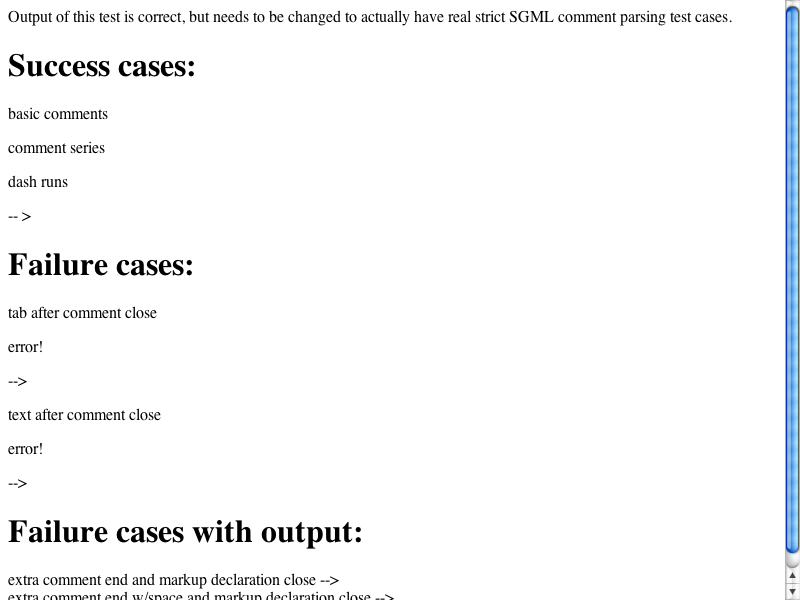
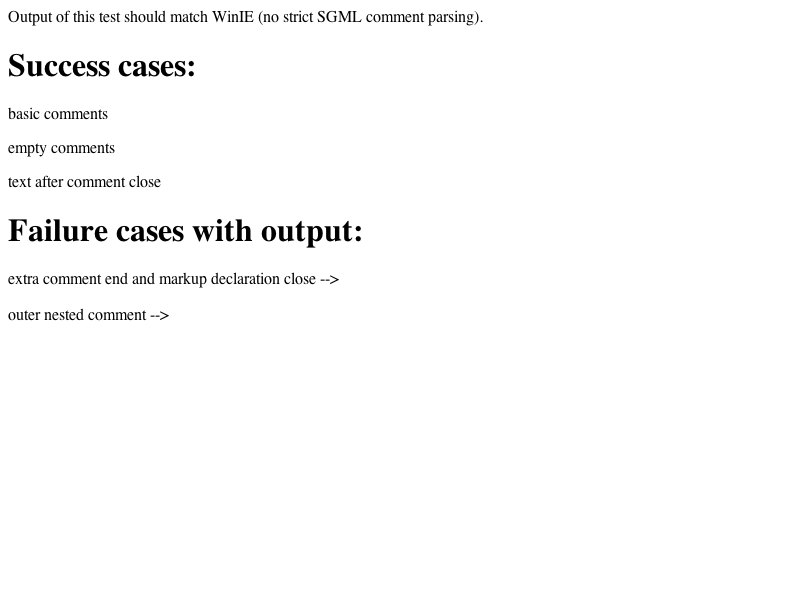
Reviewed by hyatt.
- http://bugzilla.opendarwin.org/show_bug.cgi?id=5855
          REGRESSION: revert SGML comment parsing fix (comment parsing causes most of usbank.com page to be missing)

WebCore:
        * html/HTMLTokenizer.cpp:
        (WebCore::HTMLTokenizer::parseComment): Revert one change made for acid2, 
        <http://weblogs.mozillazine.org/hyatt/acid6.txt>.

LayoutTests:
        * fast/css/acid2.html: Updated to the current version of the test, which no longer includes 
          SGML comment parsing.
        * fast/css/acid2-pixel.html: Ditto.
        * http/tests/misc/acid2-pixel.html: Ditto.
        * http/tests/misc/acid2.html: Ditto.
        * fast/parser/comments-expected.checksum: The results of this test now match WinIE.
        * fast/parser/comments-expected.png:
        * fast/parser/comments-expected.txt:
        * fast/parser/comments.html:

git-svn-id: https://svn.webkit.org/repository/webkit/trunk@14106 268f45cc-cd09-0410-ab3c-d52691b4dbfc

diff --git a/LayoutTests/fast/css/acid2.html b/LayoutTests/fast/css/acid2.html
@@ -117,12 +117,14 @@
   <link rel="appendix stylesheet" href="data:text/css,.picture%20%7B%20background%3A%20none%3B%20%7D"> <!-- this stylesheet should be applied by default -->
  </head>
  <body>
+
   <div class="intro">
    <h1>Standards compliant?</h1>
    <p><a href="#top">Take The Acid2 Test</a> and compare it to <a
    href="reference.html">the reference rendering</a>.</p>
   </div>
   <h2 id="top">Hello World!</h2>
+
   <div class="picture">
    <p><table><tr><td></table><p class="bad"> <!-- <table> closes <p> per the HTML4 DTD -->
    <blockquote class="first one"><address class="second two"></address></blockquote>
@@ -130,14 +132,16 @@
[1 lines of base64/hex data omitted]
    <div class="nose"><div><div></div></div></div>
    <div class="empty"><div></div></div>
+
    <div class="smile"><div><div><span><em><strong></strong></em></span></div></div></div>
    <div class="chin"><div>&nbsp;</div></div>
-   <div class="parser-container"><div class="parser"><!-- -- --->ERROR<!- ------ ></div></div> <!-- two dashes is what delimits a comment, so the text "->ERROR<!-" earlier on this line is actually part of a comment -->
+   <div class="parser-container"><div class="parser"><!-- ->ERROR<!- --></div></div> <!-- two dashes is what delimits a comment, so the text "->ERROR<!-" earlier on this line is actually part of a comment -->
    <ul>
     <li class="first-part"></li>
     <li class="second-part"></li>
     <li class="third-part"></li>
     <li class="fourth-part"></li>
+
    </ul>
[1 lines of base64/hex data omitted]
   </div>

diff --git a/LayoutTests/http/tests/misc/acid2.html b/LayoutTests/http/tests/misc/acid2.html
@@ -117,12 +117,14 @@
   <link rel="appendix stylesheet" href="data:text/css,.picture%20%7B%20background%3A%20none%3B%20%7D"> <!-- this stylesheet should be applied by default -->
  </head>
  <body>
+
   <div class="intro">
    <h1>Standards compliant?</h1>
    <p><a href="#top">Take The Acid2 Test</a> and compare it to <a
    href="reference.html">the reference rendering</a>.</p>
   </div>
   <h2 id="top">Hello World!</h2>
+
   <div class="picture">
    <p><table><tr><td></table><p class="bad"> <!-- <table> closes <p> per the HTML4 DTD -->
    <blockquote class="first one"><address class="second two"></address></blockquote>
@@ -130,14 +132,16 @@
[1 lines of base64/hex data omitted]
    <div class="nose"><div><div></div></div></div>
    <div class="empty"><div></div></div>
+
    <div class="smile"><div><div><span><em><strong></strong></em></span></div></div></div>
    <div class="chin"><div>&nbsp;</div></div>
-   <div class="parser-container"><div class="parser"><!-- -- --->ERROR<!- ------ ></div></div> <!-- two dashes is what delimits a comment, so the text "->ERROR<!-" earlier on this line is actually part of a comment -->
+   <div class="parser-container"><div class="parser"><!-- ->ERROR<!- --></div></div> <!-- two dashes is what delimits a comment, so the text "->ERROR<!-" earlier on this line is actually part of a comment -->
    <ul>
     <li class="first-part"></li>
     <li class="second-part"></li>
     <li class="third-part"></li>
     <li class="fourth-part"></li>
+
    </ul>
[1 lines of base64/hex data omitted]
   </div>

diff --git a/LayoutTests/fast/css/acid2-pixel.html b/LayoutTests/fast/css/acid2-pixel.html
@@ -118,6 +118,7 @@
  </head>
  <body>
   <h2 id="top">Hello World!</h2>
+
   <div class="picture">
    <p><table><tr><td></table><p class="bad"> <!-- <table> closes <p> per the HTML4 DTD -->
    <blockquote class="first one"><address class="second two"></address></blockquote>
@@ -125,14 +126,16 @@
[1 lines of base64/hex data omitted]
    <div class="nose"><div><div></div></div></div>
    <div class="empty"><div></div></div>
+
    <div class="smile"><div><div><span><em><strong></strong></em></span></div></div></div>
    <div class="chin"><div>&nbsp;</div></div>
-   <div class="parser-container"><div class="parser"><!-- -- --->ERROR<!- ------ ></div></div> <!-- two dashes is what delimits a comment, so the text "->ERROR<!-" earlier on this line is actually part of a comment -->
+   <div class="parser-container"><div class="parser"><!-- ->ERROR<!- --></div></div> <!-- two dashes is what delimits a comment, so the text "->ERROR<!-" earlier on this line is actually part of a comment -->
    <ul>
     <li class="first-part"></li>
     <li class="second-part"></li>
     <li class="third-part"></li>
     <li class="fourth-part"></li>
+
    </ul>
[1 lines of base64/hex data omitted]
   </div>

diff --git a/LayoutTests/http/tests/misc/acid2-pixel.html b/LayoutTests/http/tests/misc/acid2-pixel.html
@@ -118,6 +118,7 @@
  </head>
  <body>
   <h2 id="top">Hello World!</h2>
+
   <div class="picture">
    <p><table><tr><td></table><p class="bad"> <!-- <table> closes <p> per the HTML4 DTD -->
    <blockquote class="first one"><address class="second two"></address></blockquote>
@@ -125,14 +126,16 @@
[1 lines of base64/hex data omitted]
    <div class="nose"><div><div></div></div></div>
    <div class="empty"><div></div></div>
+
    <div class="smile"><div><div><span><em><strong></strong></em></span></div></div></div>
    <div class="chin"><div>&nbsp;</div></div>
-   <div class="parser-container"><div class="parser"><!-- -- --->ERROR<!- ------ ></div></div> <!-- two dashes is what delimits a comment, so the text "->ERROR<!-" earlier on this line is actually part of a comment -->
+   <div class="parser-container"><div class="parser"><!-- ->ERROR<!- --></div></div> <!-- two dashes is what delimits a comment, so the text "->ERROR<!-" earlier on this line is actually part of a comment -->
    <ul>
     <li class="first-part"></li>
     <li class="second-part"></li>
     <li class="third-part"></li>
     <li class="fourth-part"></li>
+
    </ul>
[1 lines of base64/hex data omitted]
   </div>

diff --git a/LayoutTests/fast/parser/comments.html b/LayoutTests/fast/parser/comments.html
@@ -1,8 +1,7 @@
 <!DOCTYPE html PUBLIC "-//W3C//DTD XHTML 1.0 Transitional//EN" "http://www.w3.org/TR/xhtml1/DTD/xhtml1-transitional.dtd">
 <html>
 <body>
-Output of this test is correct, but needs to be changed to actually have
-real strict SGML comment parsing test cases.
+Output of this test should match WinIE (no strict SGML comment parsing).
 
 <h1>Success cases:</h1>
 <p>basic comments<p>

diff --git a/WebCore/html/HTMLTokenizer.cpp b/WebCore/html/HTMLTokenizer.cpp
@@ -503,45 +503,27 @@ HTMLTokenizer::State HTMLTokenizer::scriptExecution(const DeprecatedString& str,
 HTMLTokenizer::State HTMLTokenizer::parseComment(SegmentedString &src, State state)
 {
     // FIXME: Why does this code even run for comments inside <script> and <style>? This seems bogus.
-    bool strict = !parser->doc()->inCompatMode() && !state.inScript() && !state.inStyle();
-    int delimiterCount = 0;
-    bool canClose = false;
     checkScriptBuffer(src.length());
     while ( !src.isEmpty() ) {
         scriptCode[ scriptCodeSize++ ] = *src;
 #if defined(TOKEN_DEBUG) && TOKEN_DEBUG > 1
         qDebug("comment is now: *%s*",
-               QConstString((QChar*)src.operator->(), min(16U, src.length())).deprecatedString().latin1());
+               QConstString((QChar*)src.operator->(), min(16U, src.length())).string().latin1());
 #endif
 
-        if (strict) {
-            if (src->unicode() == '-') {
-                delimiterCount++;
-                if (delimiterCount == 2) {
-                    delimiterCount = 0;
-                    canClose = !canClose;
-                }
-            }
-            else
-                delimiterCount = 0;
-        }
-
-        if ((!strict || canClose) && src->unicode() == '>') {
+        if (src->unicode() == '>') {
             bool handleBrokenComments = brokenComments && !(state.inScript() || state.inStyle());
             int endCharsCount = 1; // start off with one for the '>' character
-            if (!strict) {
-                // In quirks mode just check for -->
-                if (scriptCodeSize > 2 && scriptCode[scriptCodeSize-3] == '-' && scriptCode[scriptCodeSize-2] == '-') {
-                    endCharsCount = 3;
-                }
-                else if (scriptCodeSize > 3 && scriptCode[scriptCodeSize-4] == '-' && scriptCode[scriptCodeSize-3] == '-' && 
-                    scriptCode[scriptCodeSize-2] == '!') {
-                    // Other browsers will accept --!> as a close comment, even though it's
-                    // not technically valid.
-                    endCharsCount = 4;
-                }
+            if (scriptCodeSize > 2 && scriptCode[scriptCodeSize-3] == '-' && scriptCode[scriptCodeSize-2] == '-') {
+                endCharsCount = 3;
             }
-            if (canClose || handleBrokenComments || endCharsCount > 1) {
+            else if (scriptCodeSize > 3 && scriptCode[scriptCodeSize-4] == '-' && scriptCode[scriptCodeSize-3] == '-' && 
+                scriptCode[scriptCodeSize-2] == '!') {
+                // Other browsers will accept --!> as a close comment, even though it's
+                // not technically valid.
+                endCharsCount = 4;
+            }
+            if (handleBrokenComments || endCharsCount > 1) {
                 ++src;
                 if (!(state.inScript() || state.inXmp() || state.inTextArea() || state.inStyle())) {
 #ifdef INCLUDE_COMMENTS_IN_DOM // FIXME: Turn this on soon.
